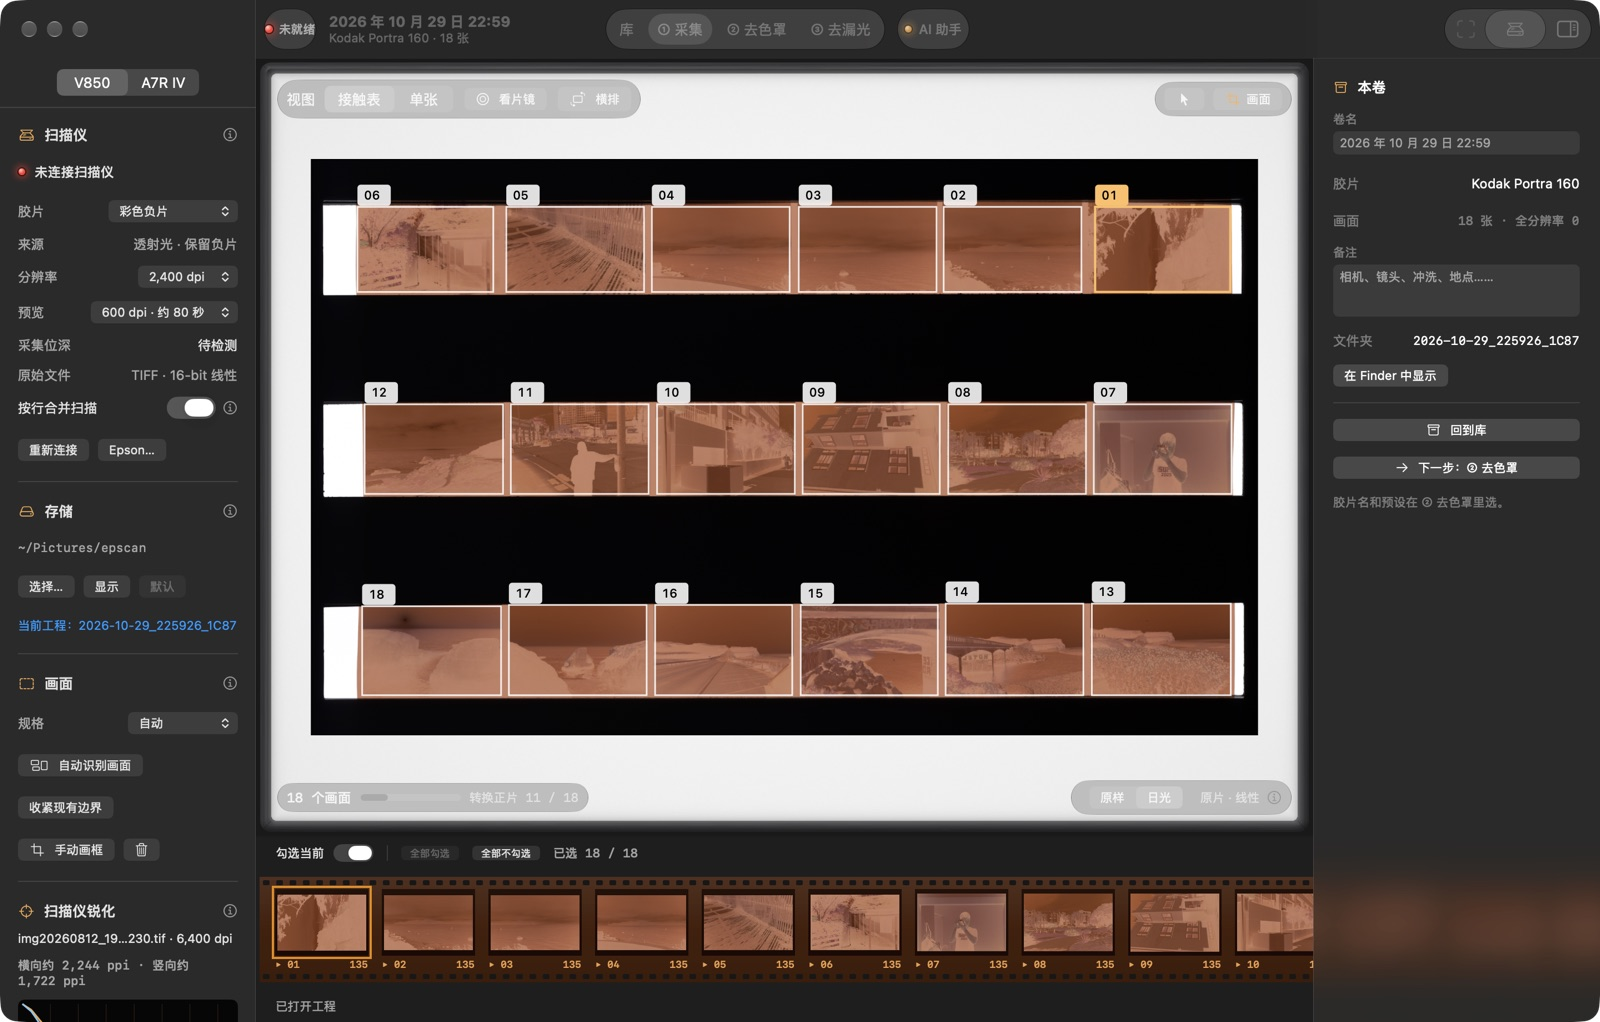
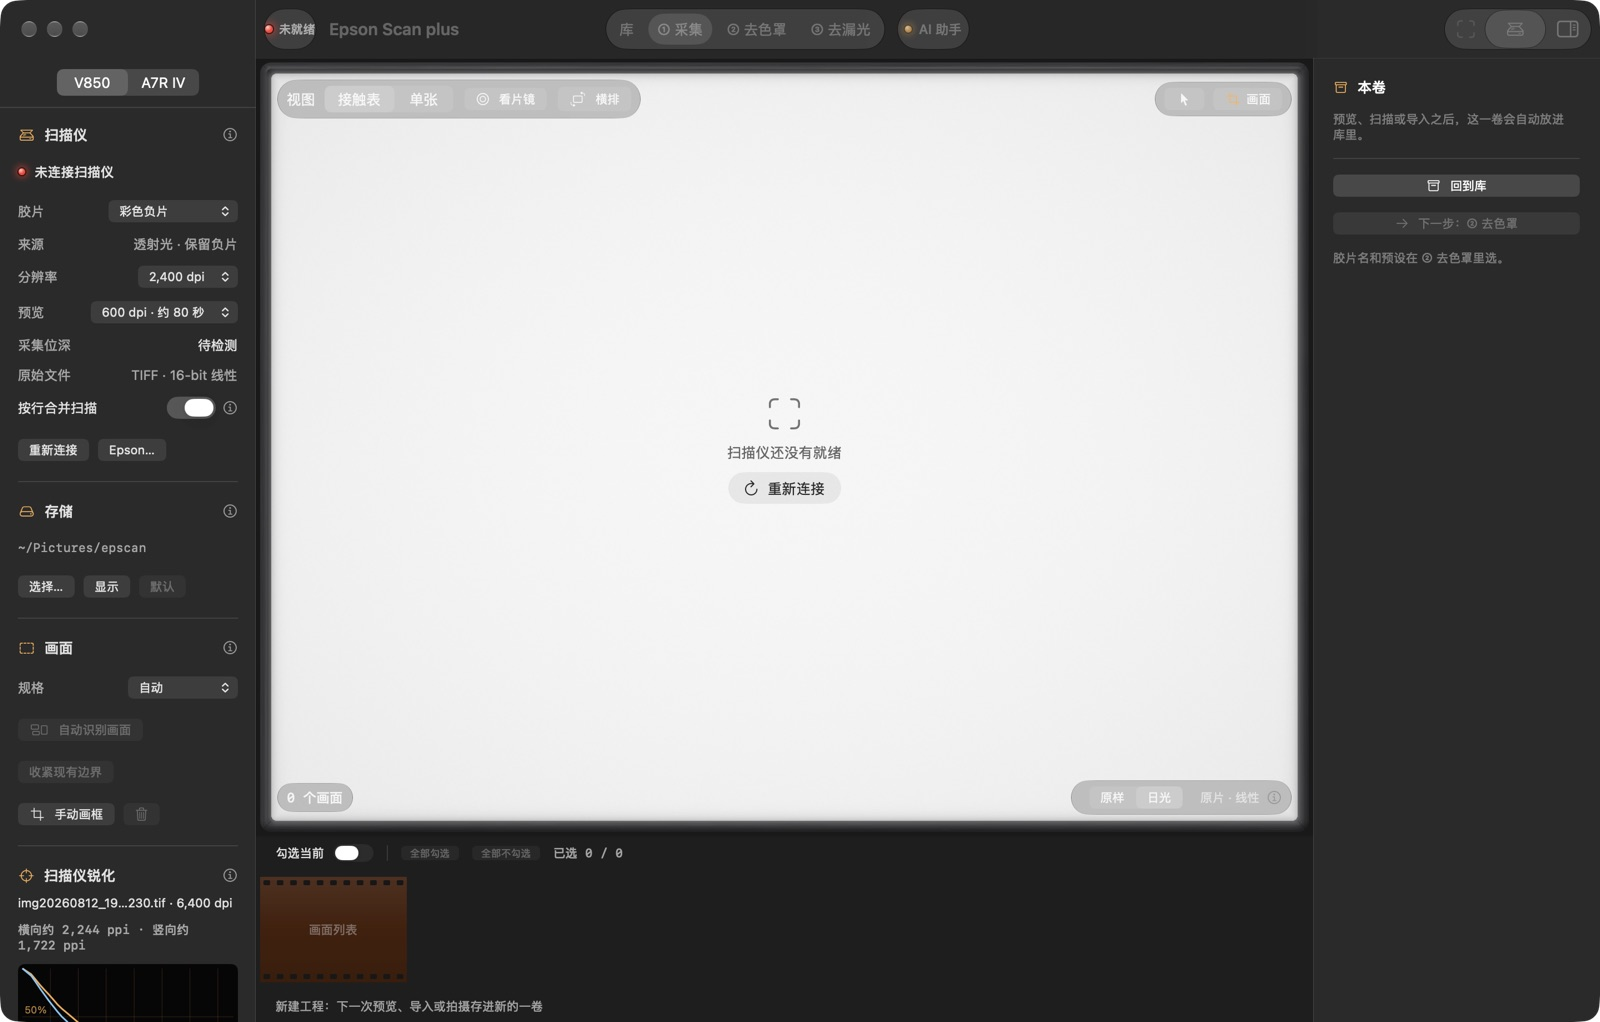
README shots without people: the window on the Phoenix 6×6 copy roll, ① on a new roll
The user keeps their own photos and people out of the public README. The window, the single
view, the loupe and the leak page now show 2026-11-07_132152_9EA1 (bridges, hills and sky),
frame 06. The library shows only the copy rolls with no people. ① with the V850 is a new
roll's empty light table, since the only rolls the scanner made are the sea roll's. The scanner
is set for colour negatives as a new install has it.

loupe.jpg, cut from the main window, replaces the sea-roll pictures loupe-eyepiece, loupes,
scan-head and crop-lens, which are removed; the left-panel row takes scan-head's place.

diff --git a/Tools/Screenshots.swift b/Tools/Screenshots.swift
@@ -28,14 +28,17 @@ struct ShotFailure: Error { let message: String }
 
 @main enum Screenshots {
   static let library = URL(fileURLWithPath: NSHomeDirectory()).appendingPathComponent("Pictures/epscan")
-  /// The sea-and-sky roll on Portra 160 from the V850, turned upright: its pictures are the ones
-  /// already shown.
-  static let roll = "2026-10-29_225926_1C87"
-  /// The library's sleeves, newest first: copy rolls of Phoenix 6×6 and Portra 160 (one of them
-  /// cross-processed) and one of Ektar, so the films on their labels differ. Not the sea roll's
-  /// scans: some of its frames show the user, who keeps them out of the README.
+  /// The roll the window shows: Harman Phoenix II 200 in 6×6, copied on the A7R IV: bridges, hills
+  /// and sky. No roll with people in it is shown anywhere (the user keeps those out of the README):
+  /// not the sea roll the V850 scanned, nor the cross-processed Portra.
+  static let roll = "2026-11-07_132152_9EA1"
+  /// Its frame on the light table under the loupe, in the single view and on the leak page.
+  static let frame = "06"
+  /// The library's sleeves: the copy rolls with no people in them (Phoenix 6×6, Portra 160 and
+  /// Ektar frames of lakes, bridges, signs and test charts), so the films on their labels differ.
   static let shelf = [
-    "2026-11-07_132152_9EA1", "2026-11-07_221113_E606", "2026-10-30_194132_3146", "2026-10-28_220205_CF4A",
+    "2026-11-07_132152_9EA1", "2026-11-07_125356_8778", "2026-10-30_194132_3146", "2026-10-30_091410_A34F",
+    "2026-10-28_220205_CF4A", "2026-10-31_220844_7A73", "2026-10-28_203123_8045",
   ]
   /// A copy roll from the A7R IV: Harman Phoenix II 200 in 6×6, with dust found on its first frame.
   static let copyRoll = "2026-11-07_132152_9EA1"
@@ -96,7 +99,8 @@ struct ShotFailure: Error { let message: String }
     let defaults = UserDefaults(suiteName: suite)!
     defaults.setPersistentDomain(UserDefaults.standard.persistentDomain(forName: "local.epscan.mac") ?? [:], forName: suite)
     defer { defaults.removePersistentDomain(forName: suite) }
-    for key in ["leftWidth", "rightWidth", "loupeStyle", "loupeField", "contactLandscape", "loupeShown"] {
+    // The scanner set for colour negatives, as a new install has it, whatever the user scanned last.
+    for key in ["leftWidth", "rightWidth", "loupeStyle", "loupeField", "contactLandscape", "loupeShown", "scanReversal"] {
       defaults.removeObject(forKey: key)
     }
     // The views' own switches live in this tool's standard defaults; set here, removed after.
@@ -165,12 +169,13 @@ struct ShotFailure: Error { let message: String }
       if try Picture.save(image, to: out.appendingPathComponent(name), width: width) { changed.append(name) }
     }
 
-    model.loadProject(rollURL.appendingPathComponent(AppModel.projectFile))
-    guard !model.frames.isEmpty else { throw ShotFailure(message: "截图用的那一卷打不开：\(rollURL.path)") }
     model.preferences.contactLandscape = true
     model.preferences.showLoupe = false
 
-    // ① capture, with the scanner: its left panel.
+    // ① capture, with the scanner, for a new roll: its left panel and the empty light table with
+    // the preview's key. The only rolls the scanner made are the sea roll's, whose frames show the
+    // user. Nothing is saved (`readOnly`), and a new project makes no folder before its first preview.
+    model.startNewProject()
     model.page = .capture
     model.captureSource = .scanner
     model.showSingle(false)
@@ -179,14 +184,27 @@ struct ShotFailure: Error { let message: String }
     let captureColumns = Picture.columns(window)
     try save(capturePanel, "capture.jpg", width: 1600)
 
-    // ② taking the mask off: the light table, the loupe on 16.
+    model.loadProject(rollURL.appendingPathComponent(AppModel.projectFile))
+    guard !model.frames.isEmpty else { throw ShotFailure(message: "截图用的那一卷打不开：\(rollURL.path)") }
+
+    // ② taking the mask off: the light table, the loupe on the frame; the light table cut out.
     model.page = .convert
     model.panelTab = .calibration
-    select("16")
+    settle(3)
+    // Every frame converted, not the first few over black cells.
+    var converting = 0.0
+    while (model.positivesLoading != nil || model.frames.contains { model.thumbnails[$0.id] == nil }) && converting < 120 {
+      pump(0.5)
+      converting += 0.5
+    }
+    settle(2)
+    select(frame)
     model.toggleLoupe(true)
     settle(2)
     freshStatus()
-    try save(try Picture.capture(window, work: work), "main-window.jpg", width: 1600)
+    let main = try Picture.capture(window, work: work)
+    try save(main, "main-window.jpg", width: 1600)
+    if let cut = Picture.crop(main, to: workArea(Picture.columns(window)), window: window) { try save(cut, "loupe.jpg", width: 1400) }
 
     // The same with the left panel open, the areas numbered.
     standard.set(true, forKey: "convertSidebarShown")
@@ -211,7 +229,7 @@ struct ShotFailure: Error { let message: String }
     standard.set(false, forKey: "convertSidebarShown")
     model.panelTab = .calibration
 
-    // The single view, 16.
+    // The single view, the same frame.
     model.toggleLoupe(false)
     model.showSingle(true)
     settle(2)
@@ -266,7 +284,7 @@ struct ShotFailure: Error { let message: String }
       if let cut = Picture.crop(dust, to: workArea(Picture.columns(window)), window: window) { try save(cut, "dust.jpg", width: 1400) }
       dustBack()
       model.showSingle(false)
-      // Back to the sea roll for the library and the leak page.
+      // Back to the window's roll for the library and the leak page.
       model.loadProject(rollURL.appendingPathComponent(AppModel.projectFile))
       model.page = .convert
       settle(2)
@@ -301,7 +319,7 @@ struct ShotFailure: Error { let message: String }
     settle()
 
     // Last, and never left: leaving the 去漏光 page saves its job into Application Support.
-    select("16")
+    select(frame)
     if let id = model.selectedID { model.openInLeak(id) }
     settle(4)
     try save(try Picture.capture(window, work: work), "leak-page.jpg", width: 1600)

diff --git a/README.md b/README.md
@@ -22,7 +22,7 @@
   <a href="doc/CHANGELOG.md">版本记录</a>
 </p>
 
-![主界面：② 去色罩，接触表放在灯箱上，看片镜放在所选的第 16 张上](doc/images/main-window.jpg)
+![主界面：② 去色罩，一卷 6×6 的翻拍放在灯箱上，看片镜放在所选的画面上](doc/images/main-window.jpg)
 
 扫描或翻拍，去色罩，调色，导出，全部在本机处理。只有去漏光生成参考图时，才会在你确认后上传一张缩图。
 
@@ -43,7 +43,7 @@
 <td colspan="2" valign="top"><img src="doc/images/shelf-detail.jpg" width="100%" alt="胶片架下方：厂家资料、画幅和片边"><br><b>厂家资料、画幅和片边</b>：选中一款，下面是厂家怎么介绍它、数据表里的关键数据，以及数据表和厂家页面的链接。「片边」说照片里有没有拍进片边，尺寸按胶片的实际宽度算：135 为 35 mm，120 为 61.5 mm。</td>
 </tr>
 <tr>
-<td valign="top"><img src="doc/images/capture.jpg" width="100%" alt="① 采集：V850 的整幅预览"><br><b>① V850 扫描</b>：48-bit 线性整幅预览，自动识别 135 和 120 的画面，按行合并扫描，扫完自动导出正片。</td>
+<td valign="top"><img src="doc/images/capture.jpg" width="100%" alt="① 采集：V850 的设置和等着预览的灯箱"><br><b>① V850 扫描</b>：片夹放好后先扫一张 48-bit 线性整幅预览，自动识别 135 和 120 的画面，按行合并扫描，扫完自动导出正片。</td>
 <td valign="top"><img src="doc/images/copy-table.jpg" width="100%" alt="翻拍卷的灯箱"><br><b>① A7R IV 翻拍</b>：直连相机的 PTP，支持 4 张或 16 张像素位移。翻拍的卷按画幅排在灯箱上，先去串色、再除以平场。</td>
 </tr>
 <tr>
@@ -55,16 +55,12 @@
 <td valign="top"><img src="doc/images/curves.jpg" width="100%" alt="曲线"><br><b>曲线</b>：和 Lightroom 一样的参数曲线和 RGB / 单通道点曲线，背后是正片的直方图；也能在照片上直接拖着调。</td>
 </tr>
 <tr>
-<td valign="top"><img src="doc/images/loupe-eyepiece.jpg" width="100%" alt="看片镜"><br><b>看片镜</b>：Pentax、Mamiya、Peak、Rodenstock、Schneider 式的 3D 看片镜，放在灯箱或单张上，按画幅算视场和放大倍率。</td>
+<td valign="top"><img src="doc/images/loupe.jpg" width="100%" alt="看片镜"><br><b>看片镜</b>：Pentax、Mamiya、Peak、Rodenstock、Schneider 式的 3D 看片镜，放在灯箱或单张上，按画幅算视场和放大倍率。</td>
 <td valign="top"><img src="doc/images/leak-page.jpg" width="100%" alt="③ 去漏光"><br><b>③ 去漏光</b>：用同一张照片的干净参考图修复红色 / 品红漏光。参考图只指导平滑的色彩校正，输出的像素都来自原片。</td>
 </tr>
 <tr>
-<td valign="top"><img src="doc/images/scan-head.jpg" width="100%" alt="扫描头"><br><b>扫描头</b>：正式扫描时，3D 的扫描头按真实进度从画面上走过，接触表和单张上都看得到。</td>
+<td valign="top"><img src="doc/images/panels.jpg" width="100%" alt="左栏的三页"><br><b>左栏</b>：① 扫描仪的设置、② 的预设标定和输出，各是左栏的一页。</td>
 <td valign="top"><img src="doc/images/shortcuts.jpg" width="100%" alt="键盘快捷键"><br><b>键盘快捷键</b>：⌘/ 打开一览，包括画面上不在菜单里的单个字母键。</td>
-</tr>
-<tr>
-<td valign="top"><img src="doc/images/loupes.jpg" width="100%" alt="四种看片镜"><br><b>几种看片镜</b>：放大倍率和视场各不相同，按画幅换算。</td>
-<td valign="top"><img src="doc/images/crop-lens.jpg" width="100%" alt="裁切时的玻璃泡"><br><b>裁切时的玻璃泡</b>：拖裁切框的角，旁边浮出一个放大的玻璃泡，看清边缘再放手。</td>
 </tr>
 </table>
 

diff --git a/doc/interface.md b/doc/interface.md
@@ -220,21 +220,15 @@
 
 ## 扫描头
 
-![左：接触表上；右：单张视图中](images/scan-head.jpg)
-
 正式扫描时，正在扫描的那张上会出现一个 3D 渲染的扫描头：黑色机身、拉丝铝顶板，灯管从两侧透出，照亮下方的一条胶片。它按扫描进度从画面的一端走到另一端（V850 从片床顶端往下读），在接触表和单张视图中都会显示。
 
 ## 看片镜
 
-![早先的四种型号：左上 Pentax 式 5.5×、右上 Mamiya 式 4×、左下 Rodenstock 式 3×、右下 Schneider-Kreuznach 式 3×（后来换成了 Peak 式 8× 和 Schneider 10×），都按胶片的实际比例放在第 16 张上](images/loupes.jpg)
-
-![贴近目镜看：第 16 张整格装在 5.5× 的镜片里，周围是黑色目镜](images/loupe-eyepiece.jpg)
+![看片镜放在灯箱的一格上](images/loupe.jpg)
 
 五种型号都按胶片的实际比例绘制（底座直径：Pentax 48、Mamiya 56、Peak 52、Rodenstock 90、Schneider 10× 40 mm）；单张视图中画面比实物大得多，看片镜按窗口大小画。贴近目镜看时，视点在镜片轴上、目镜正上方，镜片占满所选视场。灯箱上镜片显示这款看片镜的整个视场（5.5× 约 46 mm、4× 约 52 mm、Peak 8× 约 45 mm、Rodenstock 3× 约 84 mm、Schneider 10× 约 24 mm），放大倍率由镜片在屏幕上的大小决定；大视场至少放大 1.5×，放不下时在画布内尽量放大（3× 的镜片可以占到画布短边的九成多）。单张视图中倍率相对画面，不超过型号本身的倍率和像素能撑起的程度。由 Metal 逐像素光线步进渲染：透明底座透出并折射下面的胶片，黑色机身映出上方的柔光箱和下面发亮的灯箱；镜片上没有镀膜反光和玻璃边的亮光，免得盖在画面上。视点在灯箱前方，看片镜离画面中心越远，越能看到它的侧面。
 
 ## 裁切时的玻璃泡
-
-![拖动裁切角时的玻璃泡](images/crop-lens.jpg)
 
 单张视图里拖裁切框的角，或在接触表上画新的画框时，光标左上方会出现一个玻璃泡。
 

diff --git a/doc/light-leak.md b/doc/light-leak.md
@@ -4,7 +4,7 @@
 
 ## 怎么用
 
-![去漏光页：本卷第 16 张，按它在 ② 的调色打开](images/leak-page.jpg)
+![去漏光页：本卷第 06 张，按它在 ② 的调色打开](images/leak-page.jpg)
 
 顶栏切到「去漏光」（App 要先有工程：只修别处已转好的正片时，先在库里点「新建工程」，再切到 ③ 去漏光，用顶栏的「导入正片」）。这一页移植自 FilmLightLab 1.5.0（修订 9），算法逐项改写为 Swift：同样的输入下，场景判断、自动保护、对齐、拟合出的模型和输出像素与原版一致，
 
